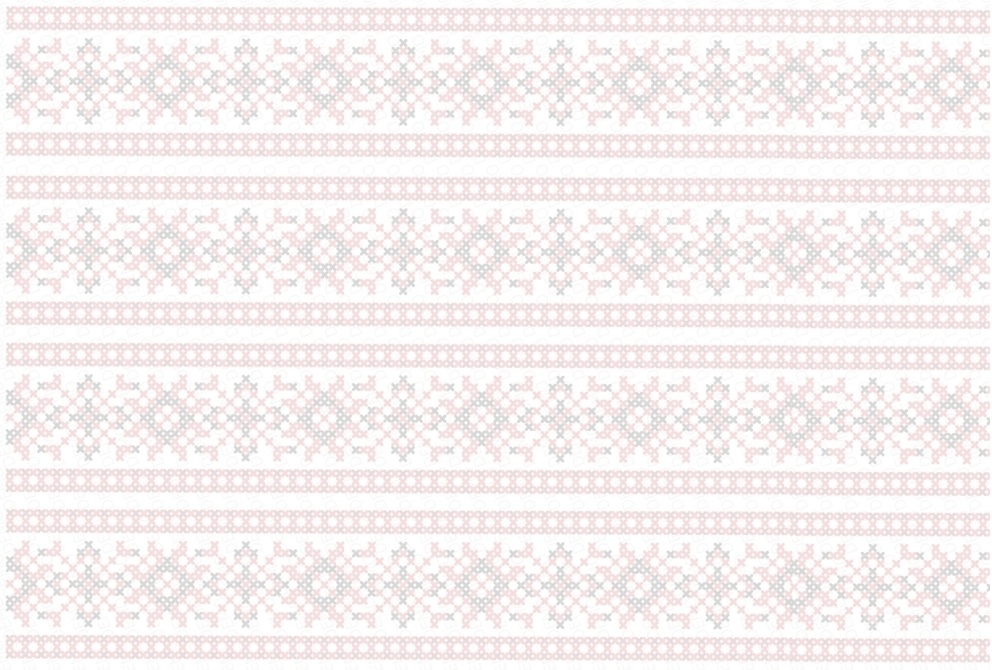
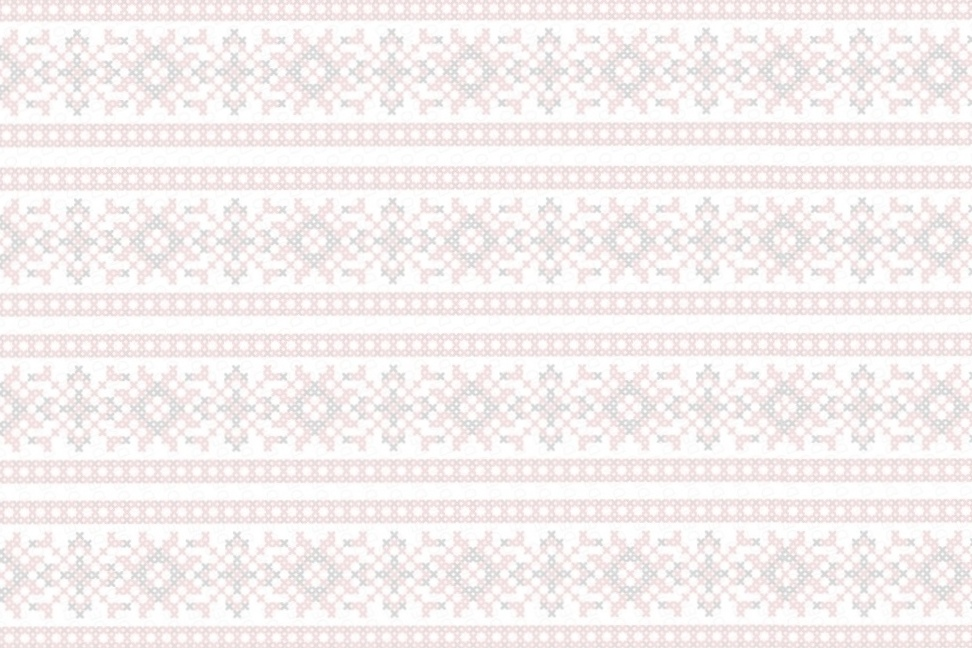
change color

diff --git a/public/css/styles.css b/public/css/styles.css
@@ -279,6 +279,10 @@ summary {
   box-shadow: 4px 4px 7px 0 #18181B;
 }
 
+body {
+  background: #f7eeed;
+}
+
 ul[class],
 ol[class] {
   list-style: none;
@@ -340,7 +344,7 @@ a {
   -webkit-box-shadow: 2px 2px 4px 0 #360404;
   -moz-box-shadow: 2px 2px 4px 0 #360404;
   box-shadow: 2px 2px 4px 0 #360404;
-  background-color: #F87171;
+  background-color: #e09393;
 }
 .c-nav__lists {
   display: flex;
@@ -406,7 +410,7 @@ a {
 .c-header {
   margin: 0 auto;
   border: none;
-  padding: 0;
+  padding: 0 2vw;
   background-image: url(/img/background-header.jpg);
 }
 .c-header__heading {
@@ -645,9 +649,6 @@ a {
   }
   .c-box__width-homeLarge {
     width: 73.8vw;
-  }
-  .c-box__img, .c-box__promo {
-    border: 0.5vw solid red;
   }
 }
 @media screen and (min-width: 660px) {

diff --git a/public/css/styles.scss b/public/css/styles.scss
@@ -11,7 +11,7 @@
 //@import "../css/objects/objects-box";
 @import "../css/objects/objects-shadow";
 
-//@import "../css/elements/elements-body";
+@import "../css/elements/elements-body";
 @import "../css/elements/elements-lists";
 @import "../css/elements/elements-input";
 @import "../css/elements/elements-button";
@@ -26,3 +26,5 @@
 //@import "../css/components/components-mobile";
 @import "../css/components/componrtns-search";
 @import "../css/components/components-responsive"; // last
+// colors
+//@import "node_modules/bootstrap/scss/bootstrap";

diff --git a/public/css/components/_components-header.scss b/public/css/components/_components-header.scss
@@ -1,11 +1,7 @@
 .c-header {
     margin: 0 auto;
     border: none;
-    //border-radius: 6px;
-    padding: 0;
-    //border-width: 1px;
-    //border-color: red;
-    //border-style: dashed;
+    padding: 0 2vw;
     background-image: url(/img/background-header.jpg);
     &__heading {
         font-family: 'Neucha', cursive;

diff --git a/public/css/components/_components-navigation.scss b/public/css/components/_components-navigation.scss
@@ -12,7 +12,7 @@
     -webkit-box-shadow: 2px 2px 4px 0 $red1000;
     -moz-box-shadow: 2px 2px 4px 0 $red1000;
     box-shadow: 2px 2px 4px 0 $red1000;
-    background-color: $red400;
+    background-color: #e09393;
     &__lists {
         display: flex;
         width: auto;

diff --git a/public/css/components/_components-responsive.scss b/public/css/components/_components-responsive.scss
@@ -34,10 +34,6 @@
         &__width-homeLarge {
             width: 73.8vw;
         }
-        &__img,
-        &__promo {
-            border: 0.5vw solid red;
-        }
     }
 }
 // min 660

diff --git a/public/css/elements/_elements-body.scss b/public/css/elements/_elements-body.scss
@@ -1,3 +1,3 @@
 body {
-  //background: $body;
+  background: #f7eeed;
 }

diff --git a/resources/views/base.blade.php b/resources/views/base.blade.php
@@ -7,7 +7,7 @@
     <meta name="viewport" content="width=device-width, initial-scale=1, shrink-to-fit=no">
     <meta name="description" content="">
     <meta name="author" content="">
-    <meta name="theme-color" content="#EF4444"> <!--   color chrome mobile -->
+    <meta name="theme-color" content="#a15757"> <!--   color chrome mobile -->
 
     <!-- lightgallery -->
     <link type="text/css" rel="stylesheet" href="lightgallery/css/lightgallery.css" />
